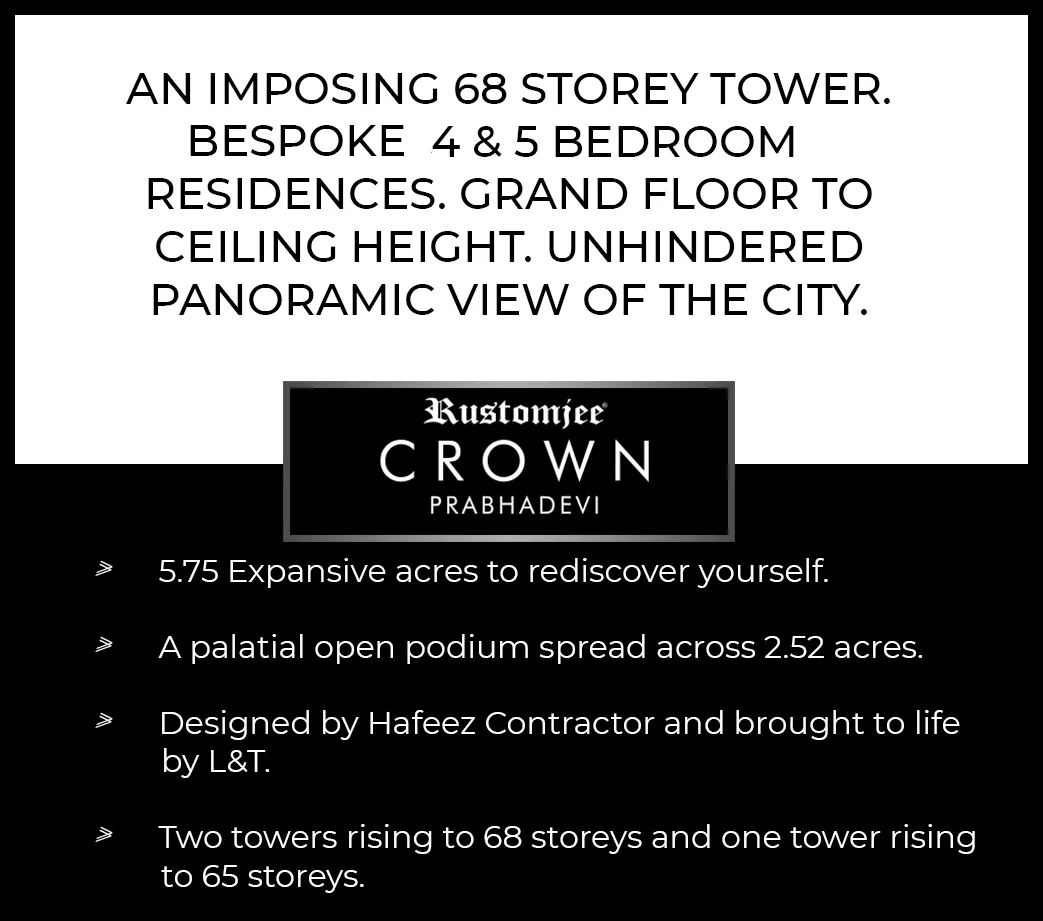
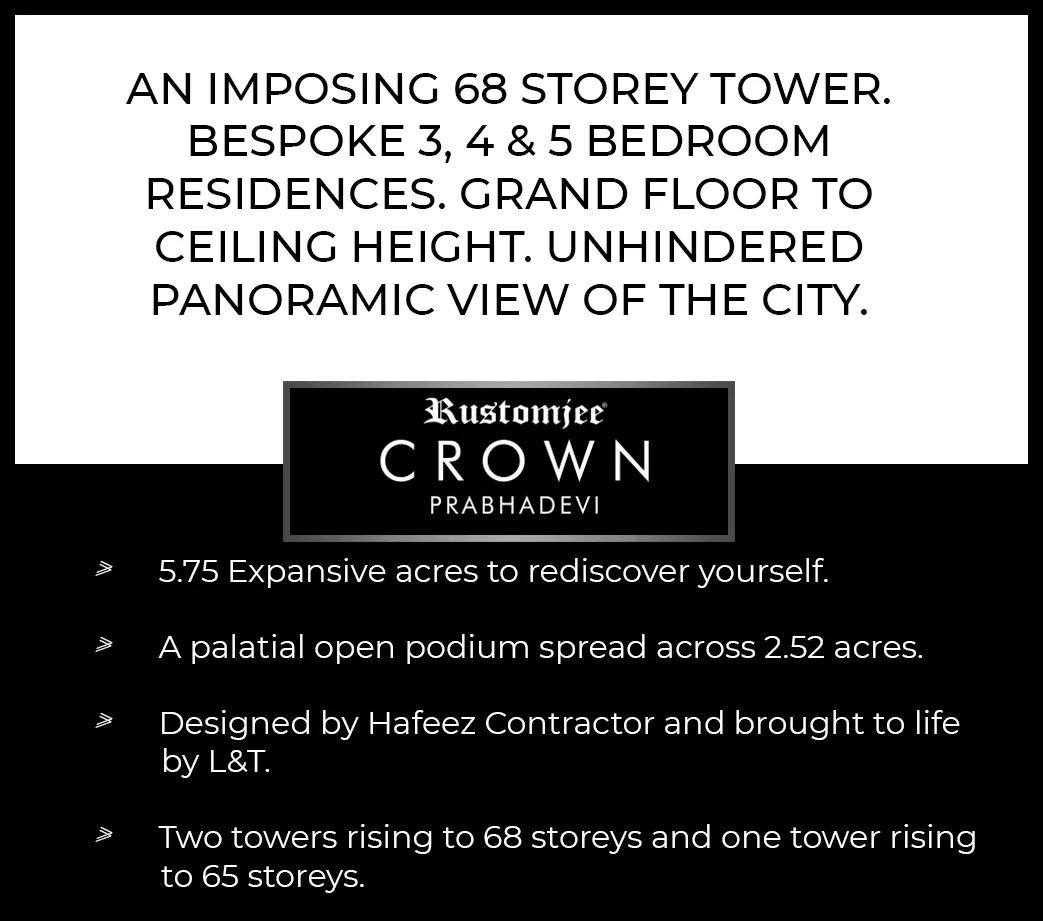
Updated pricing for Crown

Changed region(s): [[0.3988, 0.1216, 0.7977, 0.1824]]

diff --git a/index.html b/index.html
@@ -145,7 +145,7 @@ height="0" width="0" style="display:none;visibility:hidden"></iframe></noscript>
       </span> -->
 
       <div id="banner-image">
-         <img id="banner-image" src="./images/Desktop_bannerv2.webp" alt="" srcset="">
+         <img id="banner-image" src="./images/Desktop_banner_v3.webp" alt="" srcset="">
          <div class="bottom-btn" onclick="showModal()">
             Get the Deal Now
          </div>
@@ -265,6 +265,17 @@ height="0" width="0" style="display:none;visibility:hidden"></iframe></noscript>
                            </tr>
                            <tr>
                               <td>
+                                 3 Bedroom Residences
+                              </td>
+                              <td>
+                                 1335 - 1422 Sq. Ft.
+                              </td>
+                              <td onclick="showModal()" class="clickable">
+                                 Click For Price
+                              </td>
+                           </tr>
+                           <tr>
+                              <td>
                                  4 Bedroom Residences
                               </td>
                               <td>
@@ -346,7 +357,7 @@ height="0" width="0" style="display:none;visibility:hidden"></iframe></noscript>
 
       </div>
       <div>
-         <img id="banner-image" src="./images/Static_2v2.webp" alt="" srcset="">
+         <img id="banner-image" src="./images/Static_2.webp" alt="" srcset="">
 
       </div>
 
@@ -421,6 +432,17 @@ height="0" width="0" style="display:none;visibility:hidden"></iframe></noscript>
                               <th>
                                  <p><strong>Price</strong></p>
                               </th>
+                           </tr>
+                           <tr>
+                              <td>
+                                 3 Bedroom Residences
+                              </td>
+                              <td>
+                                 1335 - 1422 Sq. Ft.
+                              </td>
+                              <td onclick="showModal()" class="clickable">
+                                 Click For Price
+                              </td>
                            </tr>
                            <tr>
                               <td>

diff --git a/response.html b/response.html
@@ -98,11 +98,11 @@
 
    <main>
       <section class="desktop-only">
-         <img id="banner-image" src="./images/Desktop_bannerv2.webp" alt="" srcset="">
+         <img id="banner-image" src="./images/Desktop_banner_v3.webp" alt="" srcset="">
          
       </section>
       <section class="mobile-only">
-         <img id="banner-image" src="./images/Static_2v2.webp" alt="" srcset="">
+         <img id="banner-image" src="./images/Static_2.webp" alt="" srcset="">
          
       </section>
    </main>
